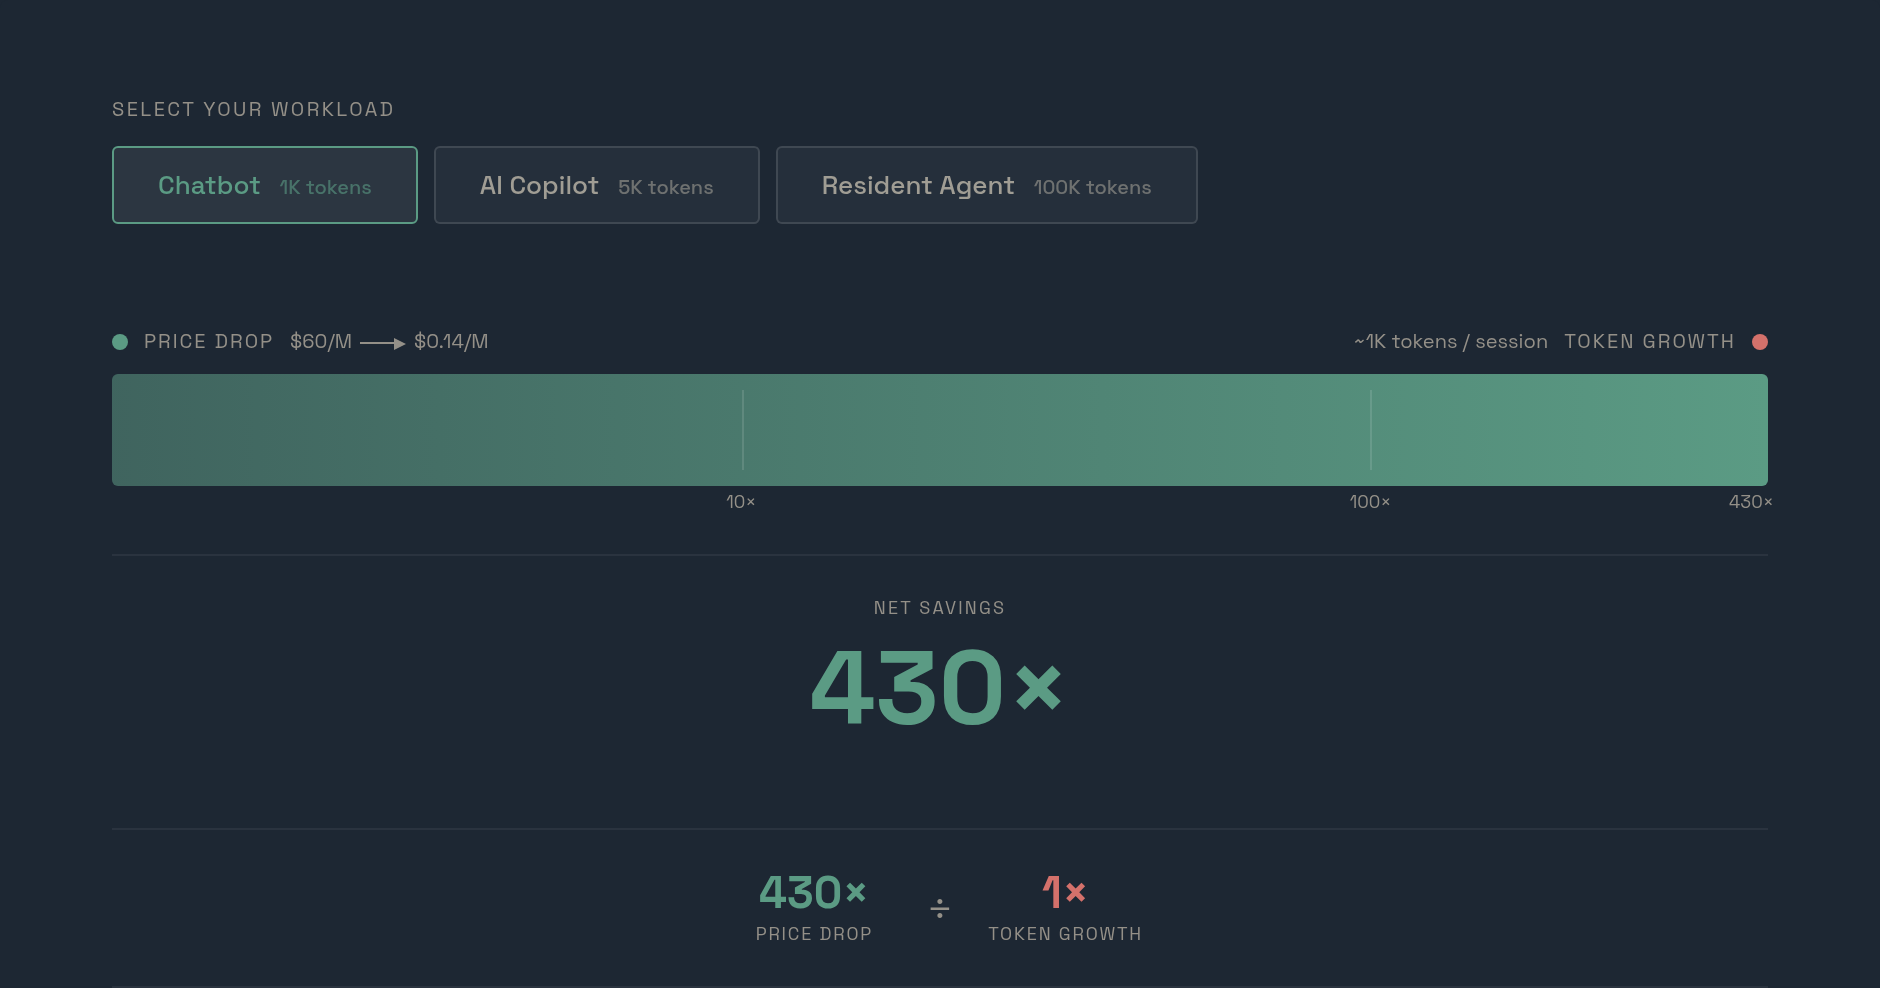
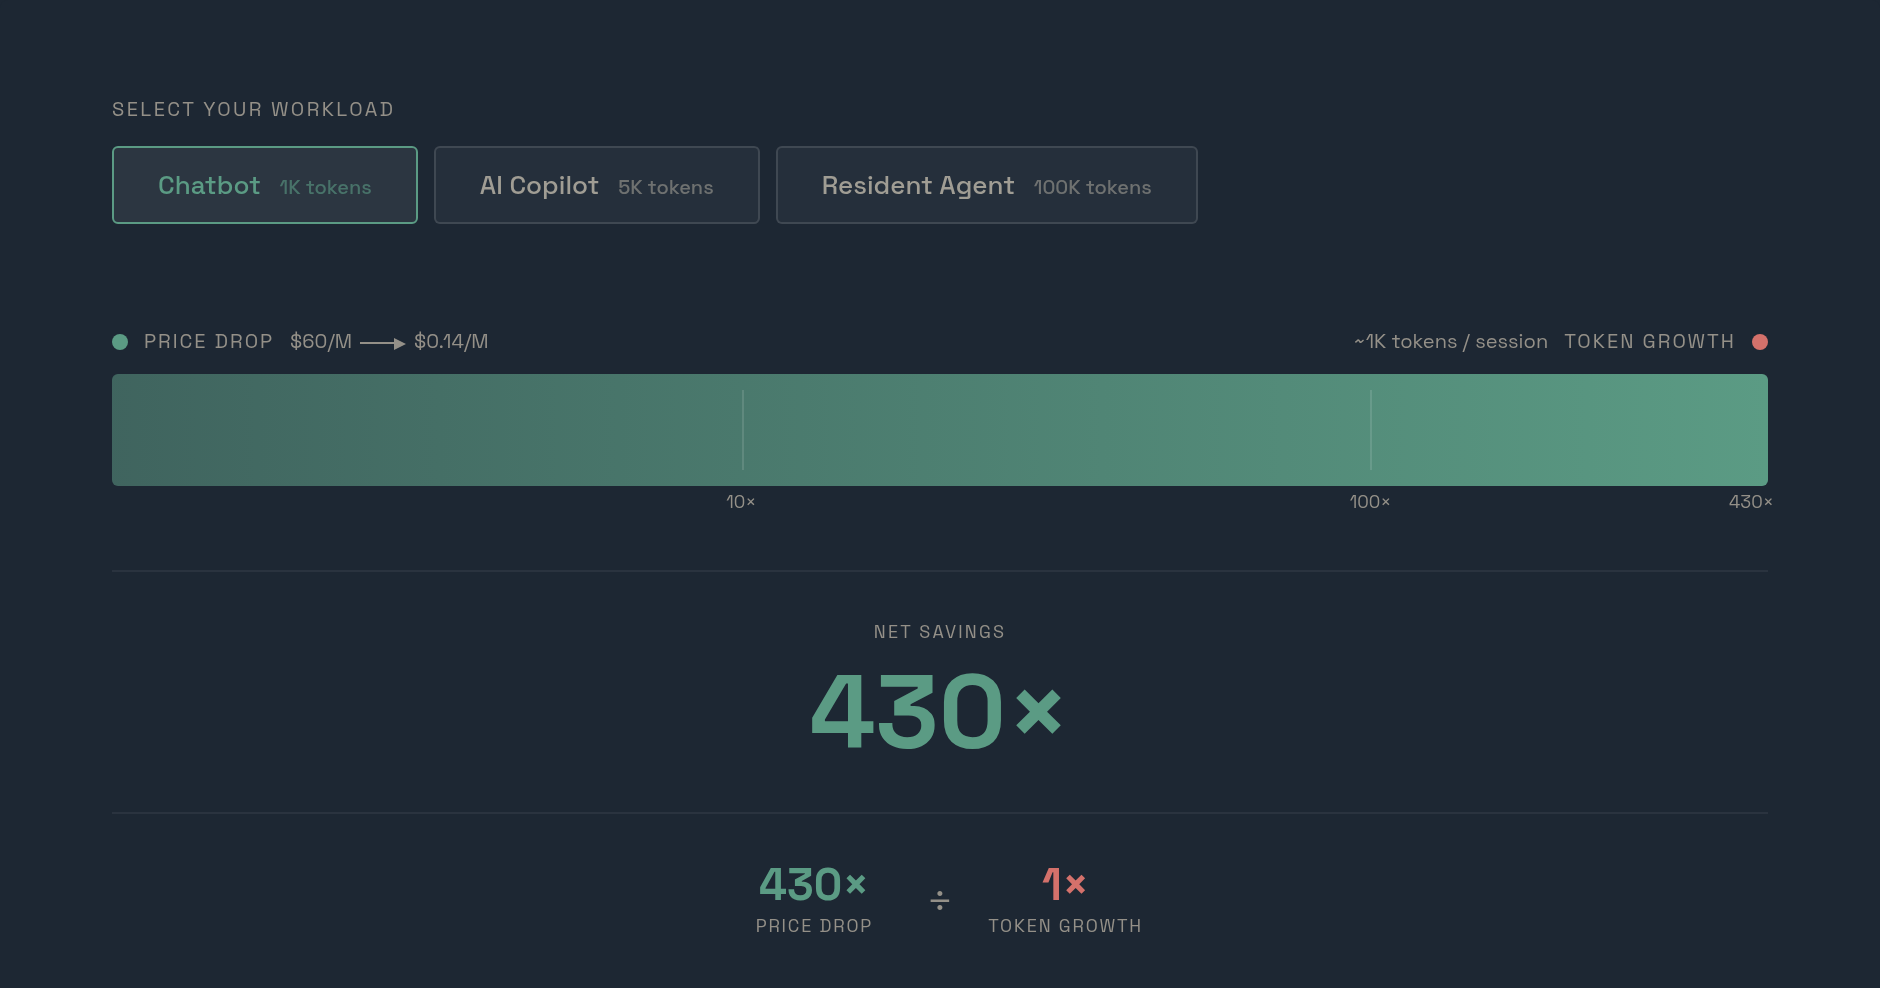
polish(inference-trap): even vertical rhythm in the result area
After dropping the equation result, the hero number floated with a 44px
void below it and the equation carried a trailing bottom border above 52px
of empty padding. Reset to a consistent 24px rhythm on both sides of each
divider (mechanism margin 44->24, net-center pad/margin 20/16->24, equation
pad 20->24) and removed the trailing border-bottom. Recaptured images.

Changed region(s): [[0.4319, 0.6073, 0.5862, 0.7591], [0.5245, 0.8806, 0.617, 0.9717], [0.4011, 0.8806, 0.4628, 0.9717]]

diff --git a/src/projects/inference-trap.html b/src/projects/inference-trap.html
@@ -84,7 +84,7 @@
     display: flex;
     flex-direction: column;
     gap: 0;
-    margin-bottom: 44px;
+    margin-bottom: 24px;
   }
 
   /* Bar header — labels above the combined bar */
@@ -170,8 +170,8 @@
     flex-direction: column;
     align-items: center;
     justify-content: center;
-    padding: 20px 0 0;
-    margin-top: 16px;
+    padding: 24px 0 0;
+    margin-top: 24px;
     border-top: 1px solid rgba(255,255,255,0.06);
   }
 
@@ -201,9 +201,8 @@
     align-items: center;
     justify-content: center;
     gap: 12px;
-    padding: 20px 0;
+    padding: 24px 0 0;
     border-top: 1px solid rgba(255,255,255,0.06);
-    border-bottom: 1px solid rgba(255,255,255,0.06);
     flex-wrap: wrap;
   }
 